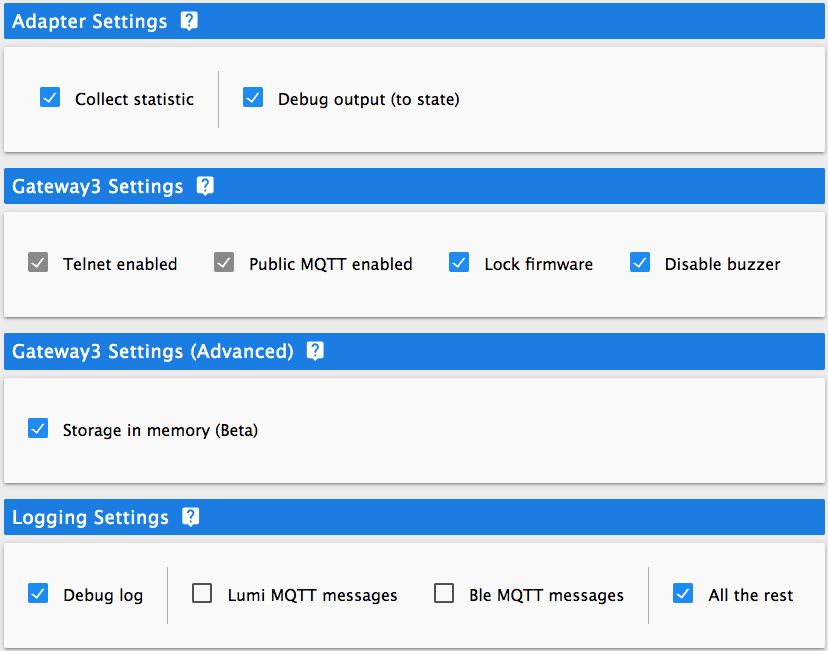
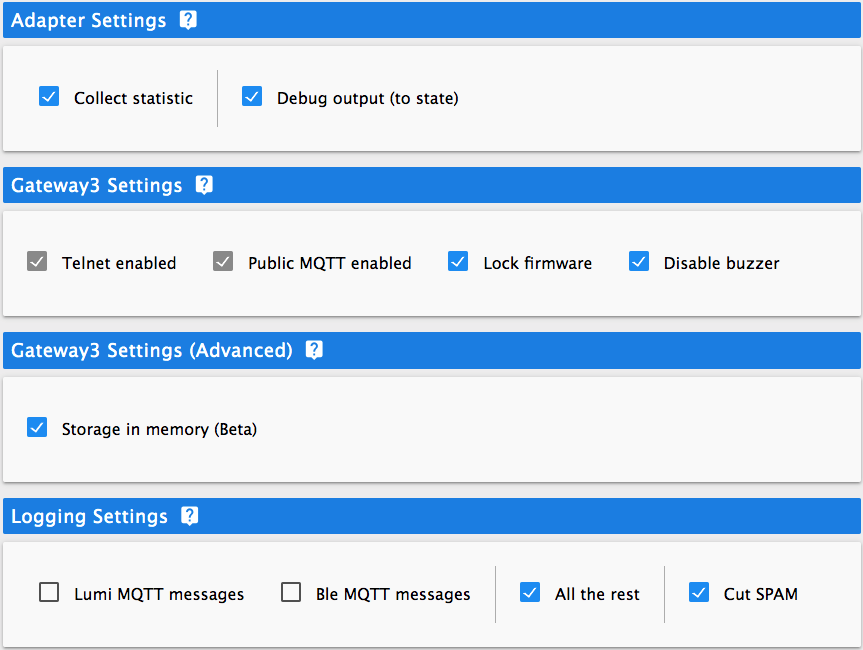
Update README

diff --git a/README.md b/README.md
@@ -217,18 +217,17 @@ Move devices DB files to memory. This can improve work zigbee and bluetooth devi
 
 _**Note:** To see debug messages in ioBroker log you have to set `debug` log level  for adapter under `Instances` page (toggle expert mode into enabled)_
 
-- [x] __Debug log__<br/>
-Enable debug logging. If disabled other logging options has no effect.
-
 - [x] __Lumi MQTT messages__<br/>
-Enable MQTT messages logging of Lumi (zigbee) devices.
+Enable MQTT messages debug logging of Lumi (zigbee) devices.
 
 - [x] __Ble MQTT messages__<br/>
-Enable MQTT messages logging of BLE devices.
+Enable MQTT messages debug logging of BLE devices.
 
 - [x] __All the rest__<br/>
-Enable all other adapter messages.
+Enable debug logging all other adapter messages.
 
+- [x] __Cut SPAM__<br/>
+Enable cutting duplicate messages. If identical error messages repeat several times they will be hidden and after 1 hour will shown total count. 
 
 ## Tab page
 
@@ -246,14 +245,14 @@ _**Note:** For now this page has basic functional. It well be expanded in future
 
 ### Device config
 
-You can define some options to configure device (and device's card) by writing configuration with yaml. Awailable options discribed belowe in table. You can invoke device config window (window with text input area) with `Config` point in menu.
+You can define some options to configure device (and device's card) by writing configuration with yaml. Available options discribed belowe in table. You can invoke device config window (window with text input area) with `Config` point in menu.
 
 <img src="static/device-yaml-config.png">
 
 #### Device configuration options
 |Field|Type|Description|
 |---|---|---|
-|cardStates|Dictionary|This dictionary hold options for device's card|
+|cardStates|Dictionary|This dictionary hold options for states in device's card|
 |cardStates.hide|List|List of states (states ids) which have to be hidden from device's card|
 
 ### Statistic
